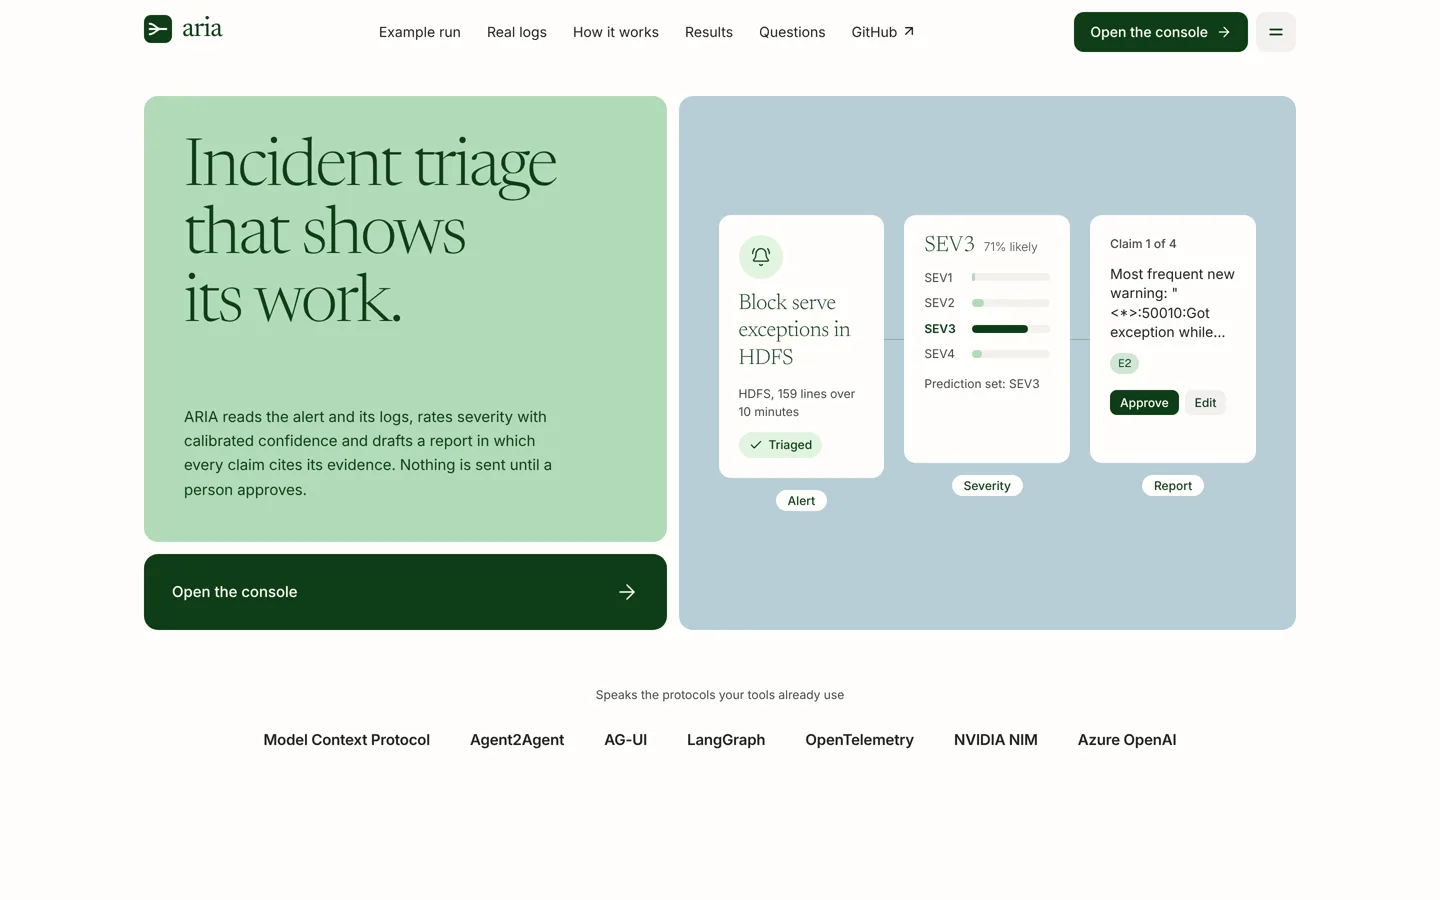
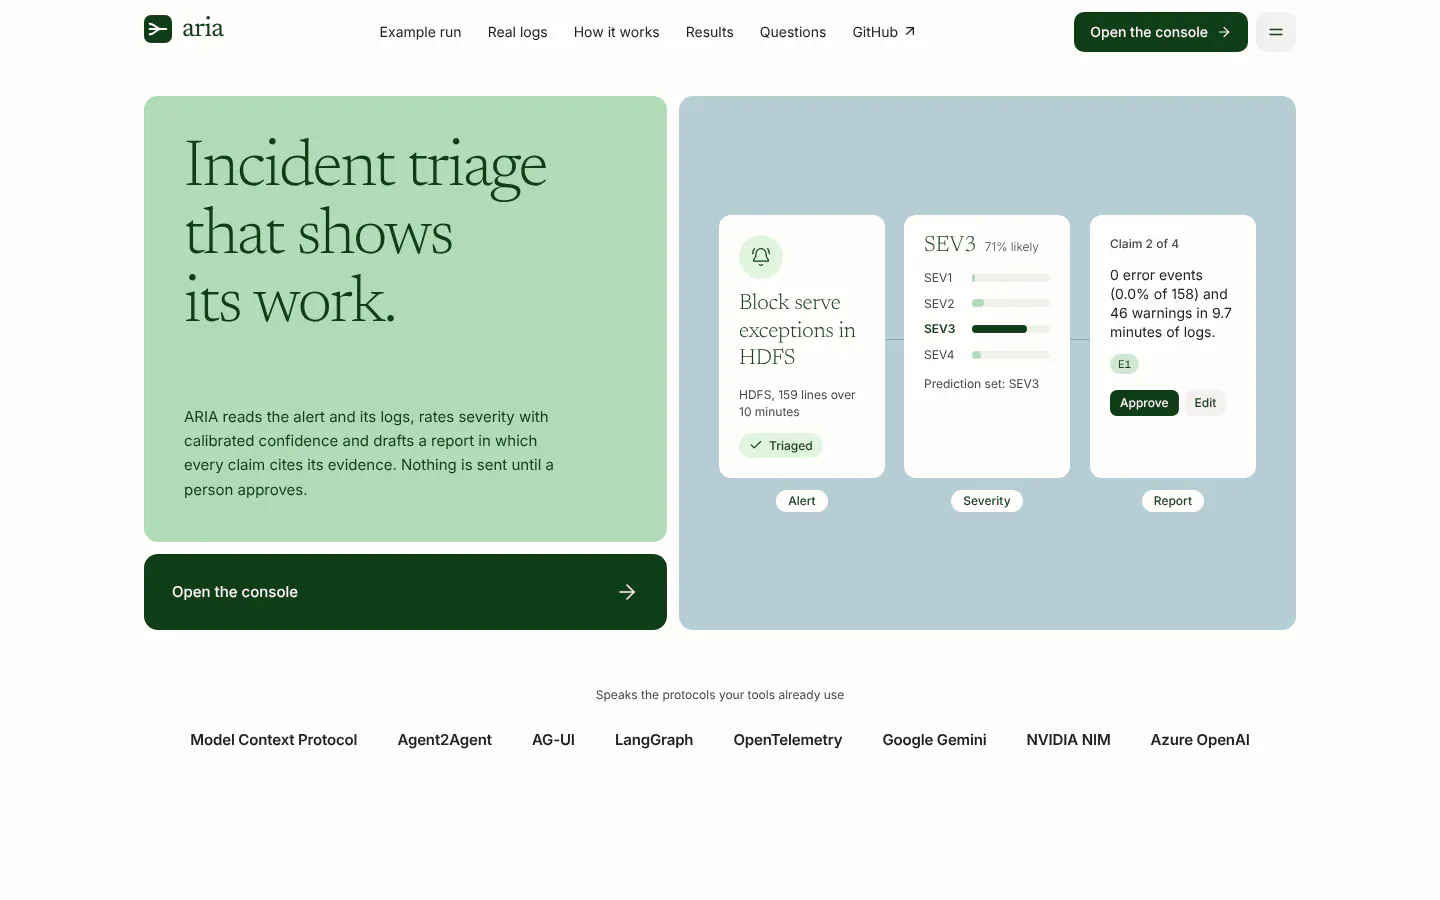
Re-shoot the README's landing page screenshots
The hero now shows Google Gemini in the landing page's row of
protocols. The replay shot pins evidence E2, so the log lines behind
it are lit as its alt text says, and neither section shot has the
fixed site header across it. The real logs alt text now describes
what that shot shows: three headline results and the chart that sets
ARIA beside the standard detectors.

Claude-Session: https://claude.ai/code/session_018rC9kKEaadnBSSbit8cw3q

diff --git a/README.md b/README.md
@@ -47,7 +47,7 @@ same way: switching is a config change.
 7. **Learn.** Approved reports join incident memory. Reviewer corrections go to a feedback
    queue, and once enough gather, the severity model's prediction sets are recalibrated on them.
 
-![A recorded run on the landing page: the HDFS log on the left, with the two lines behind evidence E2 lit up, and the triage tag on the right, whose claims each cite evidence IDs.](docs/images/replay.webp)
+![A recorded run on the landing page: the HDFS log on the left, with evidence E2 pinned and the two lines in view that carry it lit up, and the triage tag on the right, whose claims each cite evidence IDs.](docs/images/replay.webp)
 
 *One recorded run. Pointing at a citation on the tag lights up the log lines behind it.*
 
@@ -279,7 +279,7 @@ The full analysis, with the code and test for each control, is in the
 
 ## Measured results
 
-![The landing page's Real logs section: four headline results on the real Hadoop log, how ARIA catches a failure nobody logged, and bars comparing the precision and recall of ARIA, its severity engine and a keyword rule.](docs/images/real.webp)
+![The landing page's Real logs section: three headline results on the real Hadoop log, how ARIA catches a failure nobody logged, and the chart "ARIA beside standard detectors", whose bars compare the precision and recall of ARIA with rare step counts, count pairs, an isolation forest and PCA.](docs/images/real.webp)
 
 *The landing page's proof on real logs. Every number on it comes from `docs/eval-results.json`.*
 
